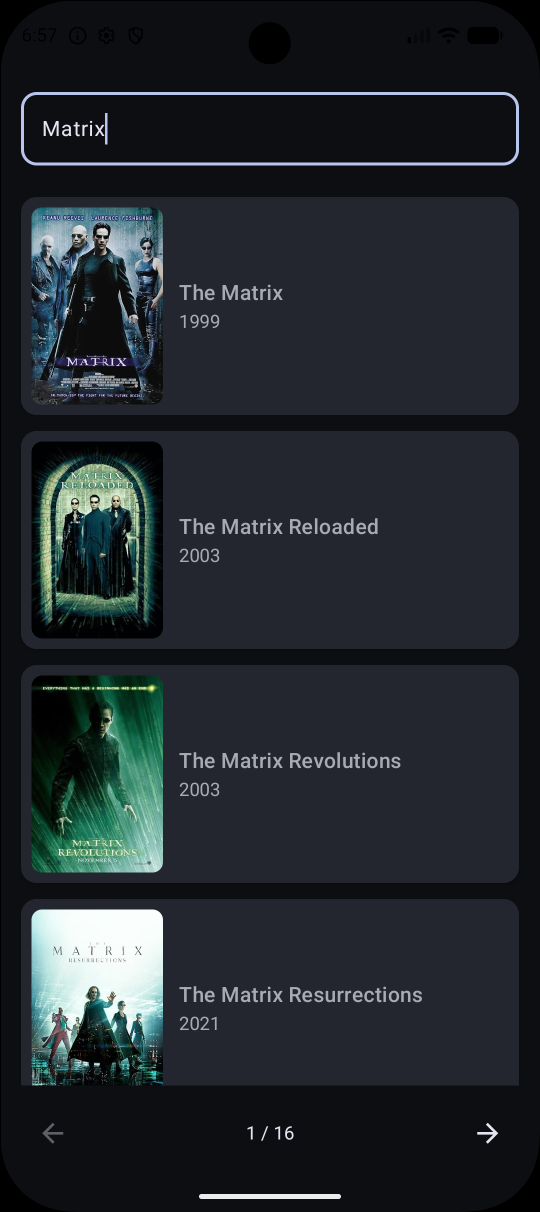
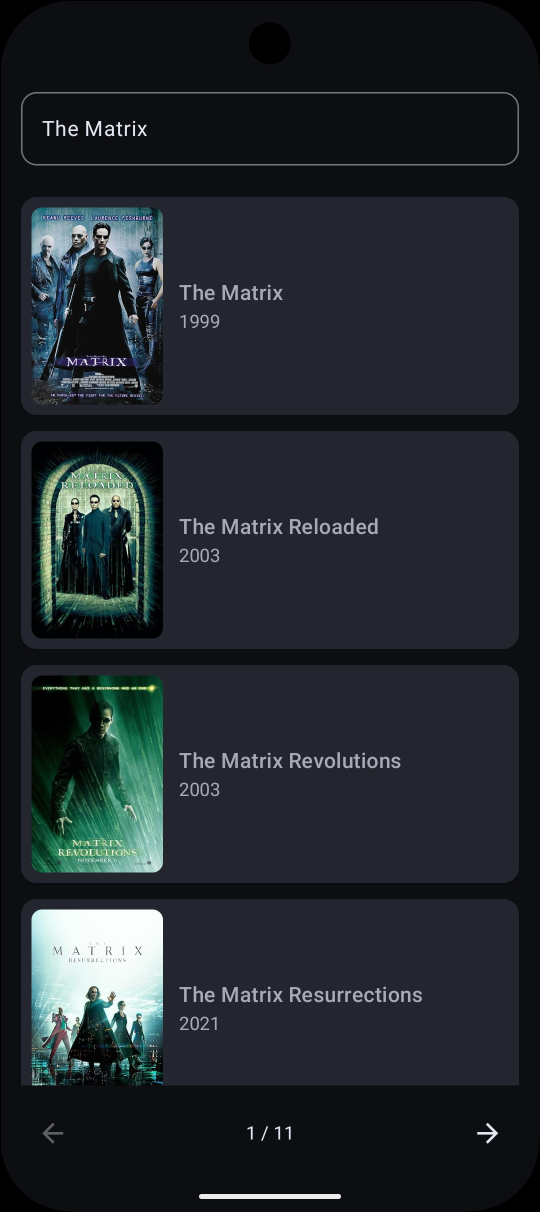
✨ README ekran görüntüleri güncellendi

Changed region(s): [[0.0296, 0.0611, 0.9481, 0.1526], [0.9481, 0.0916, 0.9778, 0.1221]]

diff --git a/app/src/main/java/com/omero/cleanmovieapp/presentation/composable/ExitDialog.kt b/app/src/main/java/com/omero/cleanmovieapp/presentation/composable/ExitDialog.kt
@@ -1,0 +1,2 @@
+package com.omero.cleanmovieapp.presentation.composable
+

diff --git a/README.md b/README.md
@@ -3,11 +3,12 @@
 OMDb API üzerinden film arama ve detay görüntüleme uygulaması. İleri seviye Android teknolojileri ile hazırlandı. 
 
 <p align="center">
-  <img src="screenshots/moviehome.png" width="30%" />
-  <img src="screenshots/moviehome2.png" width="30%" />
-  <img src="screenshots/moviedetails.png" width="30%" />
+  <img src="screenshots/moviehome.png" width="28%" alt="Ana ekran" />
+  &nbsp;&nbsp;
+  <img src="screenshots/moviehome2.png" width="28%" alt="Arama" />
+  &nbsp;&nbsp;
+  <img src="screenshots/moviedetails.png" width="28%" alt="Film detayı" />
 </p>
-
 
 
 - Data-Domain-Presentation katmanları ayrılarak veri kaynağı soyutlandı.
